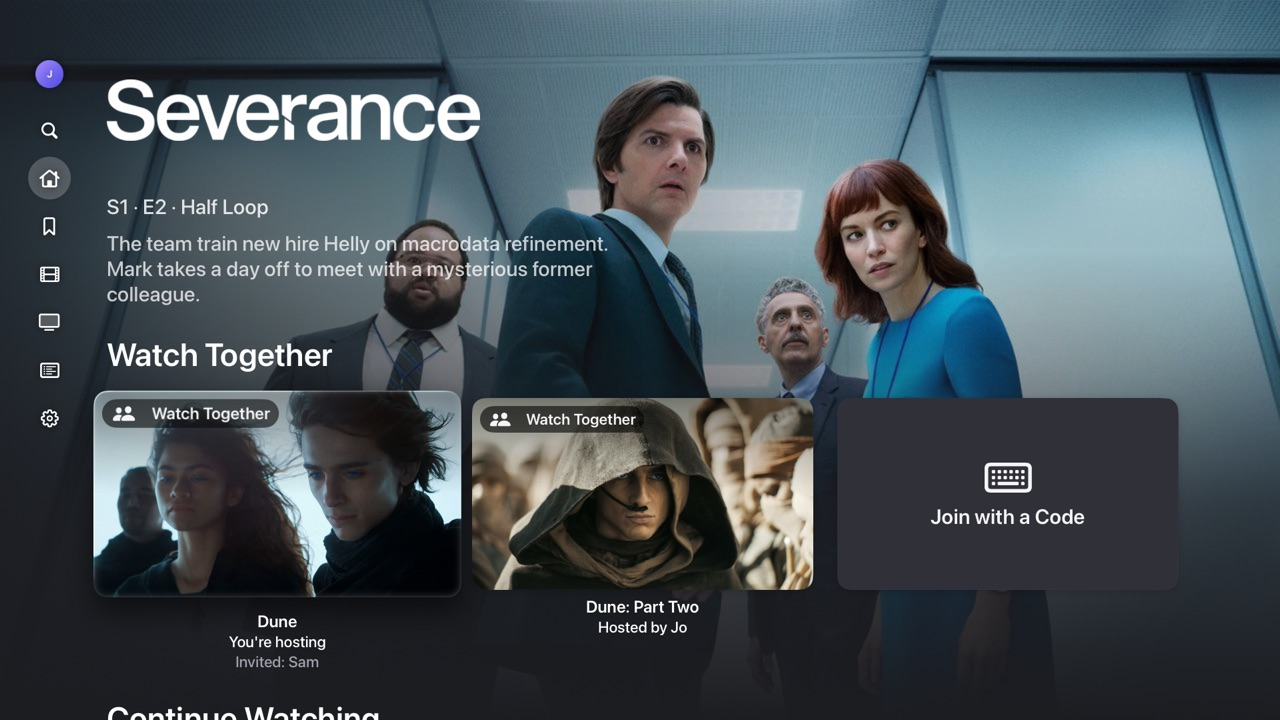
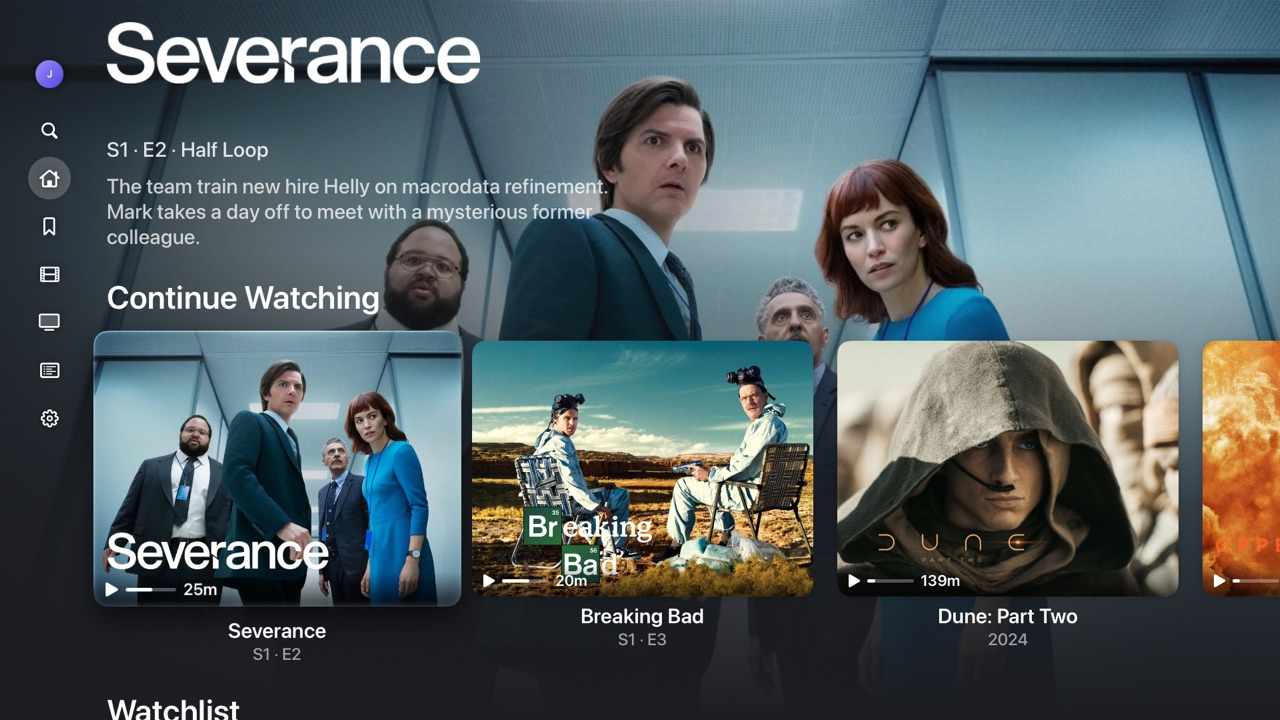
README: Home on Continue Watching
The main picture is the walk-through's new last shot (run 45083126468):
Home without Watch Together rooms.

diff --git a/README.md b/README.md
@@ -18,7 +18,7 @@
 </p>
 
 <p align="center">
-  <img src="docs/screenshots/home.jpg" alt="Arc's Home on Apple TV, with Severance's artwork filling the screen" width="900">
+  <img src="docs/screenshots/home.jpg" alt="Arc's Home on Apple TV: Continue Watching, with Severance's artwork filling the screen" width="900">
 </p>
 
 ## What is Arc for Apple TV?
